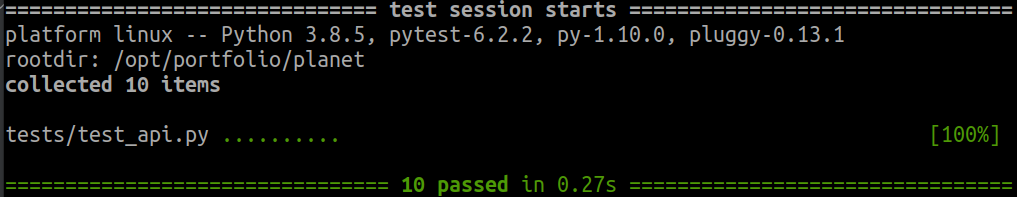
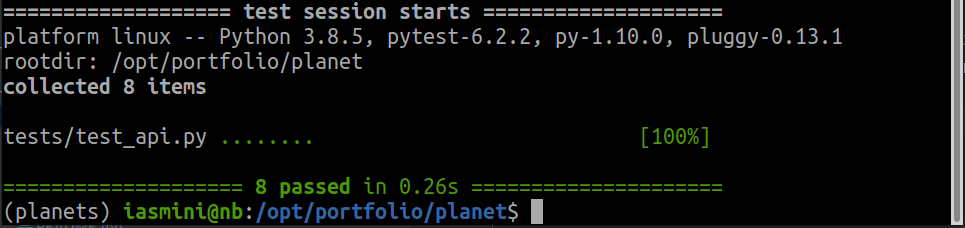
feita paginacao pelo banco, incluidos indices name e climate, atualizado README.md e testes

diff --git a/api/controllers.py b/api/controllers.py
@@ -18,7 +18,10 @@ class ApiResource(Resource):
         sort = request.args.get('sort', None)
 
         page = request.args.get('page', None, type=int)
-        # page = request.args.get('page', 1, type=int)
+
+        if page and page < 0:
+            message = 'Página {page} não existe. Página mínima 1.'.format(page=page)
+            return {"status_code": 400, "response": message}
 
         filters = ''
         if climate:
@@ -38,63 +41,27 @@ class ApiResource(Resource):
             if sort:
                 rows = Planet.query.order_by(text(sort)).all()
             else:
-                rows = Planet.query.all()
+                rows = Planet.query
 
         planets = list()
-        for row in rows:
-            planets.append(row.to_dict())
-
         # exibe somente resultados de acordo com a pagina informada na url
         if page:
-            planets = get_paginated_planets(planets, '/planets', page=page)
-
-            return planets
+            rows = rows.paginate(page, current_app.config['ITEMS_PER_PAGE'], False)
+            for row in rows.items:
+                planets.append(row.to_dict())
         else:
-            return {"status_code": 200, "response": planets}
+            for row in rows:
+                planets.append(row.to_dict())
 
+        response = dict()
+        response['status_code'] = 200
 
-def get_paginated_planets(results, url, page):
-    count = len(results)
+        response['response'] = dict()
 
-    if count == 0:
-        message = 'Não foram encontrados planetas de acordo com os parâmetros informados.'
-        return {"status_code": 400, "response": message}
+        if page:
+            response['response']['page'] = page
+            response['response']['items_per_page'] = current_app.config['ITEMS_PER_PAGE']
 
-    page = int(page)
-    items_per_page = int(current_app.config['ITEMS_PER_PAGE'])
-    max_page = int(count / items_per_page)
-    if max_page == 0:
-        max_page = 1
+        response['response']['results'] = planets
 
-    if page < 0:
-        message = 'Página {page} não existe. Página mínima 1.'.format(page=page)
-        return {"status_code": 400, "response": message}
-
-    if page > max_page:
-        message = 'Página {page} não existe. Página máxima de acordo com os parâmetros informados: {max_page}.'.format(
-            page=page, max_page=max_page)
-        return {"status_code": 400, "response": message}
-
-    obj = dict()
-    obj['page'] = page
-    obj['items_per_page'] = items_per_page
-    obj['count'] = count
-
-    # gera previous url
-    if page == 1:
-        obj['previous'] = ''
-    else:
-        previous_page = page - 1
-        obj['previous'] = url + '?page={}'.format(previous_page)
-
-    # gera next url
-    if page == max_page:
-        obj['next'] = ''
-    else:
-        next_page = page + 1
-        obj['next'] = url + '?page={}'.format(next_page)
-
-    # seleciona os resultados de acordo com limite inicial e final
-    obj['results'] = results[(page * items_per_page - items_per_page):(page * items_per_page)]
-
-    return {"status_code": 200, "response": obj}
+        return response

diff --git a/app/planet/models.py b/app/planet/models.py
@@ -5,11 +5,11 @@ from app import db
 
 class Planet(db.Model, SerializerMixin):
     id = db.Column(db.Integer, primary_key=True, autoincrement=True)
-    name = db.Column(db.String, nullable=False)
+    name = db.Column(db.String, nullable=False, index=True)
     rotation_period = db.Column(db.String, nullable=True)
     orbital_period = db.Column(db.String, nullable=True)
     diameter = db.Column(db.String, nullable=True)
-    climate = db.Column(db.String, nullable=True)
+    climate = db.Column(db.String, nullable=True, index=True)
     gravity = db.Column(db.String, nullable=True)
     terrain = db.Column(db.String, nullable=True)
     surface_water = db.Column(db.String, nullable=True)

diff --git a/tests/test_api.py b/tests/test_api.py
@@ -43,19 +43,7 @@ def test_combined():
     assert response.json['status_code'] == 200
 
 
-def test_get_unknown_planet():
-    response = app.test_client().get('/api/planets/?name=planet-x&page=1')
-
-    assert response.json['status_code'] == 400
-
-
 def test_get_min_page():
     response = app.test_client().get('/api/planets/?name=planet-x&page=-1')
-
-    assert response.json['status_code'] == 400
-
-
-def test_get_max_page():
-    response = app.test_client().get('/api/planets/?name=planet-x&page=100')
 
     assert response.json['status_code'] == 400

diff --git a/README.md b/README.md
@@ -1,7 +1,6 @@
 # planet
-Get a list of planets from a [public API](http://swapi.dev/api/), saves it on a SQLite database and show the data in a Datatable. Made with Flask.
-It's also available an API Rest with the endpoint:
-/api/planets/ - lists all the planets
+Get a list of planets from a [public API](http://swapi.dev/api/), saves it on a SQLite database and show the data in a Datatable. Made with Flask.  
+It's also available an API Rest.
 
 ## Images
 ![](static/img/tela1.png)
@@ -35,6 +34,12 @@ It's also available an API Rest with the endpoint:
 2. It will be available on: http://127.0.0.1:5000/
 
 ## API
+Root URL: http://127.0.0.1:5000
+### Lists all the planets
+```http request
+GET "/api/planets/"
+```
+
 ### Search by part of the name and climate
 ```http request
 GET "/api/planets/?climate=arid&name=tatooi"
@@ -152,129 +157,126 @@ Response
     "response": {
         "page": 2,
         "items_per_page": 10,
-        "count": 23,
-        "previous": "/planets?page=1",
-        "next": "",
         "results": [
             {
-                "diameter": "6400",
-                "surface_water": "98",
-                "name": "Bestine IV",
-                "id": 26,
-                "climate": "temperate",
+                "orbital_period": "680",
                 "gravity": "unknown",
                 "terrain": "rocky islands, oceans",
-                "orbital_period": "680",
+                "surface_water": "98",
+                "population": 62000000,
+                "diameter": "6400",
                 "rotation_period": "26",
-                "population": 62000000
+                "climate": "temperate",
+                "name": "Bestine IV",
+                "id": 26
             },
             {
-                "diameter": "14050",
-                "surface_water": "10",
-                "name": "Ord Mantell",
-                "id": 27,
-                "climate": "temperate",
+                "orbital_period": "334",
                 "gravity": "1 standard",
                 "terrain": "plains, seas, mesas",
-                "orbital_period": "334",
+                "surface_water": "10",
+                "population": 4000000000,
+                "diameter": "14050",
                 "rotation_period": "26",
-                "population": 4000000000
+                "climate": "temperate",
+                "name": "Ord Mantell",
+                "id": 27
             },
             {
-                "diameter": "11030",
-                "surface_water": "100",
-                "name": "Mon Cala",
-                "id": 31,
-                "climate": "temperate",
+                "orbital_period": "398",
                 "gravity": "1",
                 "terrain": "oceans, reefs, islands",
-                "orbital_period": "398",
+                "surface_water": "100",
+                "population": 27000000000,
+                "diameter": "11030",
                 "rotation_period": "21",
-                "population": 27000000000
+                "climate": "temperate",
+                "name": "Mon Cala",
+                "id": 31
             },
             {
-                "diameter": "13500",
-                "surface_water": "40",
-                "name": "Chandrila",
-                "id": 32,
-                "climate": "temperate",
+                "orbital_period": "368",
                 "gravity": "1",
                 "terrain": "plains, forests",
-                "orbital_period": "368",
+                "surface_water": "40",
+                "population": 1200000000,
+                "diameter": "13500",
                 "rotation_period": "20",
-                "population": 1200000000
+                "climate": "temperate",
+                "name": "Chandrila",
+                "id": 32
             },
             {
-                "diameter": "7900",
-                "surface_water": "unknown",
-                "name": "Toydaria",
-                "id": 34,
-                "climate": "temperate",
+                "orbital_period": "184",
                 "gravity": "1",
                 "terrain": "swamps, lakes",
-                "orbital_period": "184",
+                "surface_water": "unknown",
+                "population": 11000000,
+                "diameter": "7900",
                 "rotation_period": "21",
-                "population": 11000000
+                "climate": "temperate",
+                "name": "Toydaria",
+                "id": 34
             },
             {
-                "diameter": "10480",
-                "surface_water": "unknown",
-                "name": "Dathomir",
-                "id": 36,
-                "climate": "temperate",
+                "orbital_period": "491",
                 "gravity": "0.9",
                 "terrain": "forests, deserts, savannas",
-                "orbital_period": "491",
+                "surface_water": "unknown",
+                "population": 5200,
+                "diameter": "10480",
                 "rotation_period": "24",
-                "population": 5200
+                "climate": "temperate",
+                "name": "Dathomir",
+                "id": 36
             },
             {
-                "diameter": "10120",
-                "surface_water": "unknown",
-                "name": "Haruun Kal",
-                "id": 42,
-                "climate": "temperate",
+                "orbital_period": "383",
                 "gravity": "0.98",
                 "terrain": "toxic cloudsea, plateaus, volcanoes",
-                "orbital_period": "383",
+                "surface_water": "unknown",
+                "population": 705300,
+                "diameter": "10120",
                 "rotation_period": "25",
-                "population": 705300
+                "climate": "temperate",
+                "name": "Haruun Kal",
+                "id": 42
             },
             {
-                "diameter": "unknown",
-                "surface_water": "20",
-                "name": "Cerea",
-                "id": 43,
-                "climate": "temperate",
+                "orbital_period": "386",
                 "gravity": "1",
                 "terrain": "verdant",
-                "orbital_period": "386",
+                "surface_water": "20",
+                "population": 450000000,
+                "diameter": "unknown",
                 "rotation_period": "27",
-                "population": 450000000
+                "climate": "temperate",
+                "name": "Cerea",
+                "id": 43
             },
             {
-                "diameter": "13400",
-                "surface_water": "unknown",
-                "name": "Dorin",
-                "id": 49,
-                "climate": "temperate",
+                "orbital_period": "409",
                 "gravity": "1",
                 "terrain": "unknown",
-                "orbital_period": "409",
+                "surface_water": "unknown",
+                "population": null,
+                "diameter": "13400",
                 "rotation_period": "22",
-                "population": null
+                "climate": "temperate",
+                "name": "Dorin",
+                "id": 49
             },
             {
-                "diameter": "unknown",
-                "surface_water": "unknown",
-                "name": "Champala",
-                "id": 50,
-                "climate": "temperate",
+                "orbital_period": "318",
                 "gravity": "1",
                 "terrain": "oceans, rainforests, plateaus",
-                "orbital_period": "318",
+                "surface_water": "unknown",
+                "population": 3500000000,
+                "diameter": "unknown",
                 "rotation_period": "27",
-                "population": 3500000000
+                "climate": "temperate",
+                "name": "Champala",
+                "id": 50
             }
         ]
     }
@@ -315,9 +317,7 @@ Response
 | Status code      | Response                                                                                    |
 | ---------------- | ------------------------------------------------------------------------------------------- |
 |       200        | Success                                                                                     |
-|       400        | Não foram encontrados planetas de acordo com os parâmetros informados.                      |
 |       400        | Página {page} não existe. Página mínima 1.                                                  |
-|       400        | Página {page} não existe. Página máxima de acordo com os parâmetros informados: {max_page}. |
 
 ## Running tests
 > **_NOTE:_**  It's recommended doing it within a virtual environment.
